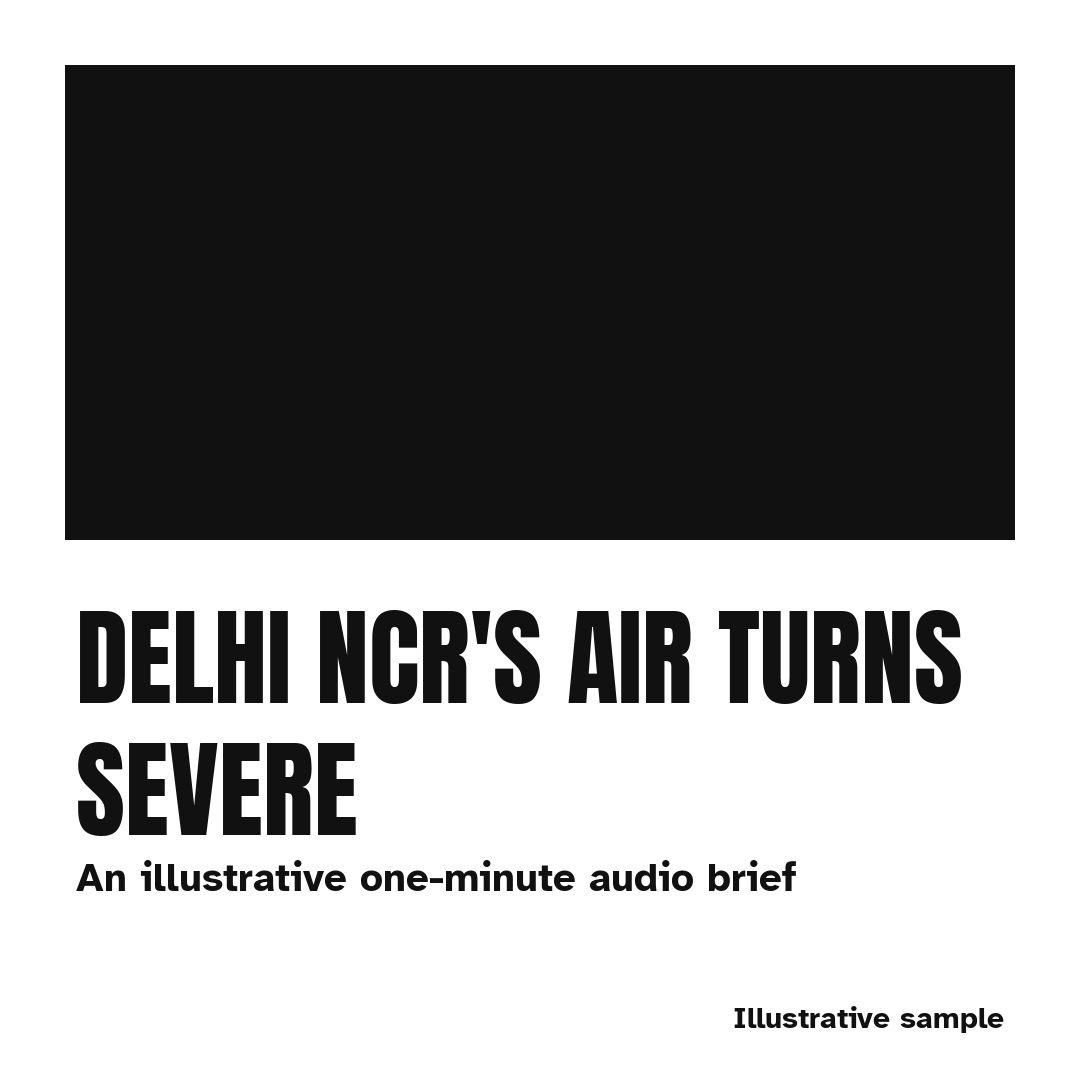
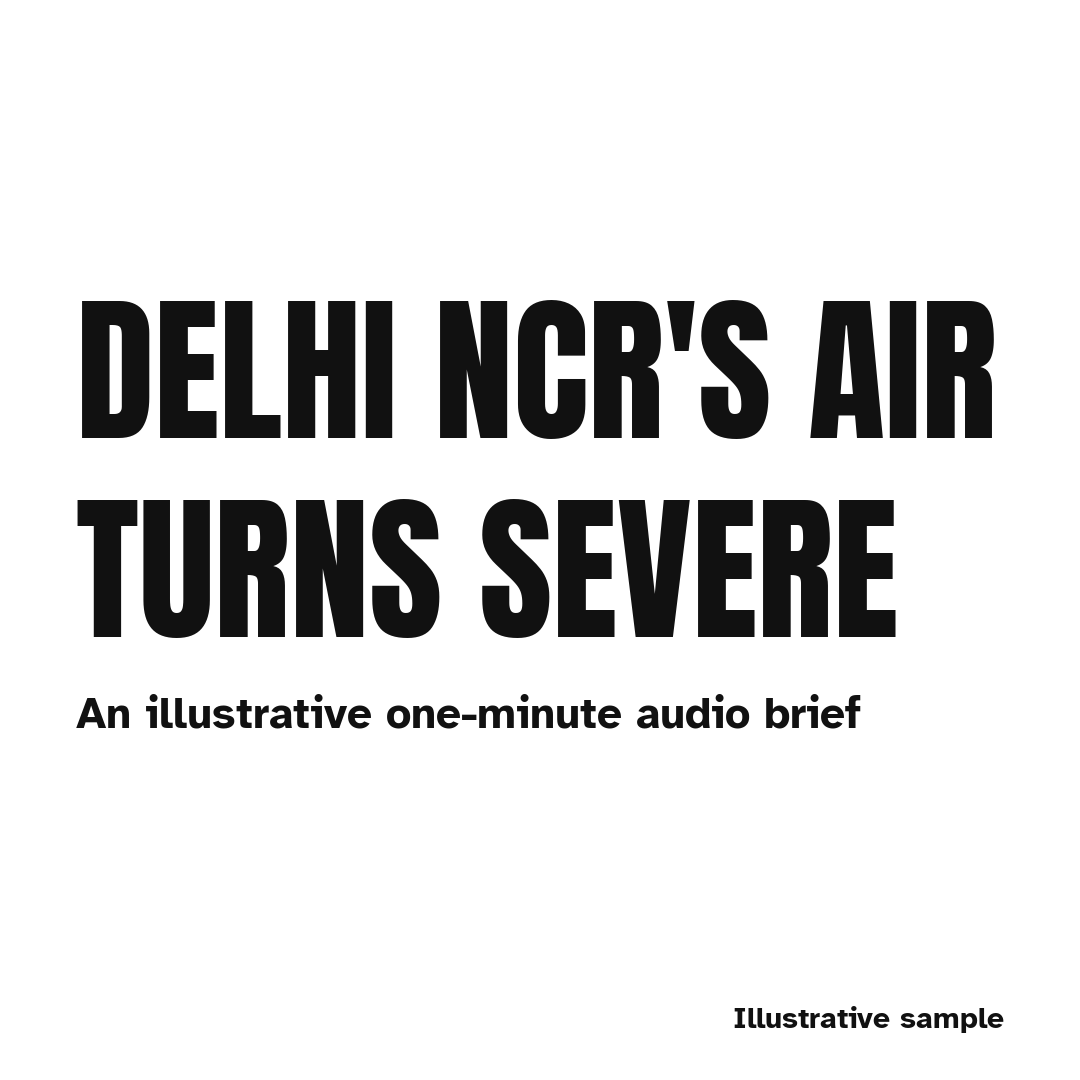
[normal] M4: still.py with no picture sets the type alone, no empty block (Round 6, R10)
Without --image the still drew a flat accent block where the picture would be (the audio brief's sample still). It now uses two type-only templates (still-tall-type, still-square-type): the title set large and bottom-aligned, the line under it, the signature kept, in the square and the 9:16 frame. A test finds no flat non-paper region and none of the accent colour at both sizes (it fails on the old code). The audio brief's still.png is remade (34,462 bytes) with its post.json description and README numbers; the explainer's still, which uses --image, is byte-identical.

diff --git a/tools/test_edit.py b/tools/test_edit.py
@@ -610,6 +610,13 @@ class Stills(Folder):
                 template = json.load(f)
             self.assertEqual({t["slot"] for t in template["texts"]}, {"title", "subtitle"})
             self.assertIsNotNone(template["signature"])
+        self.assertEqual(still.TYPE_ONLY, {(1080, 1920): "still-tall-type", (1080, 1080): "still-square-type"})  # the same two, without a picture
+        for name in still.TYPE_ONLY.values():
+            with open(os.path.join(SHARED, "..", "assets", "templates", name + ".json"), encoding="utf-8") as f:
+                template = json.load(f)
+            self.assertEqual({t["slot"] for t in template["texts"]}, {"title", "subtitle"})
+            self.assertIsNone(template["picture"])
+            self.assertIsNotNone(template["signature"])
 
 
 # ---------------------------------------------------------------------------------------------
@@ -709,6 +716,47 @@ class Drawing(UsesTheExplainersDrawingModule):
                     self.assertEqual(code, 0, line)
                     self.assertEqual("%dx%d" % (line["outputs"][0]["width"], line["outputs"][0]["height"]), size)
                     self.assertEqual(media.problems(media.inspect(out), "image", budget=False), [])
+
+    def test_a_still_with_no_picture_is_type_alone_with_no_empty_block(self):
+        from PIL import Image
+
+        accent = (200, 16, 46)
+        style = self.json_file("accent-style.json", {"signature": "Illustrative sample", "accent": "#c8102e"})
+        for size in ("1080x1920", "1080x1080"):
+            for subtitle in ("An illustrative one-minute brief", None):
+                out = self.path("type-%s-%s.png" % (size, bool(subtitle)))
+                argv = ["--title", "Delhi NCR's air turns severe", "--size", size, "--style", style, "--out", out]
+                if subtitle:
+                    argv += ["--subtitle", subtitle]
+                with self.subTest(size=size, subtitle=bool(subtitle)):
+                    code, line, _err = run_main(still, argv)
+                    self.assertEqual(code, 0, line)
+                    canvas = Image.open(out).convert("RGB")
+                    # the style's accent colour is nowhere on it: no flat block stands in for a picture
+                    self.assertFalse(any(colour == accent for _count, colour in canvas.getcolors(canvas.width * canvas.height)), "the accent colour is on the still")
+                    # and no region of a tenth of the width by a twentieth of the height is one flat colour that isn't the paper
+                    paper = canvas.getpixel((0, 0))
+                    cell_w, cell_h = canvas.width // 10, canvas.height // 20
+                    for top in range(0, canvas.height - cell_h + 1, cell_h):
+                        for left in range(0, canvas.width - cell_w + 1, cell_w):
+                            extrema = canvas.crop((left, top, left + cell_w, top + cell_h)).getextrema()
+                            flat = all(low == high for low, high in extrema)
+                            self.assertFalse(flat and tuple(low for low, _high in extrema) != paper, "a flat block at %d,%d" % (left, top))
+
+    def test_the_type_alone_still_sets_the_title_large_with_its_line_under_it(self):
+        draw = sys.modules["hrizzup_draw"]
+        style = draw.load_style(None)
+        for size, name in still.TYPE_ONLY.items():
+            template = draw.load_template(still.TEMPLATES / (name + ".json"))
+            self.assertIsNone(template["picture"])
+            _canvas, placed = draw.render_template(
+                template, {"title": "Delhi NCR's air turns severe", "subtitle": "An illustrative one-minute audio brief"}, style, size)
+            sizes = {p["slot"]: p["size"] for p in placed}
+            self.assertGreaterEqual(sizes["title"], 100, size)
+            self.assertGreater(sizes["title"], 2 * sizes["subtitle"], size)
+            slots = {t["slot"]: t["box"] for t in template["texts"]}
+            self.assertLessEqual(slots["title"][3], slots["subtitle"][1])  # the line sits under the title's box
+            self.assertLess(slots["subtitle"][3], template["signature"]["box"][1])  # and above the signature
 
     def test_a_still_with_a_title_too_long_exits_1_and_leaves_nothing(self):
         out = self.path("s.png")

diff --git a/shared/scripts/still.py b/shared/scripts/still.py
@@ -9,7 +9,8 @@
     1080x1920   a video's still (Hrizzup's format guide): the picture at the top, the title in capitals, a line under it
     1080x1080   an audio's still
 
-Without --image the picture's place is filled with the style's accent colour. The picture must be one you made or may use
+Without --image the still is type alone: the title set large in capitals and the line under it, composed in the frame with
+the signature, and no empty block where a picture would be. The picture must be one you made or may use
 (never someone else's meme image or a real person's likeness made up), at most 25 MiB, 40 megapixels and 8,192 px a side.
 The style (--style) gives the colours, the fonts and the signature; the templates have none of their own.
 
@@ -33,6 +34,7 @@ import hrizzup_media
 KIT = Path(__file__).resolve().parent.parent
 TEMPLATES = KIT / "assets" / "templates"
 SIZES = {(1080, 1920): "still-tall", (1080, 1080): "still-square"}  # a video's still, an audio's still
+TYPE_ONLY = {(1080, 1920): "still-tall-type", (1080, 1080): "still-square-type"}  # the same two, with no picture: the type alone
 MAX_TITLE = 120
 MAX_SUBTITLE = 200
 
@@ -145,7 +147,6 @@ def make(argv=None):
         return finish(False, [], [], str(error), 2)
     try:
         import hrizzup_draw
-        from PIL import Image
     except ImportError as error:
         message = ("a Python package is missing (%s): run this with `uv run scripts/still.py`, which installs them, or "
                    "make a virtual environment and install the exact set: `python3.12 -m venv .venv`, "
@@ -155,15 +156,10 @@ def make(argv=None):
         return finish(False, [], [], message, 3)
     try:
         style = hrizzup_draw.load_style(args.style)
-        template = hrizzup_draw.load_template(TEMPLATES / (SIZES[size] + ".json"))
+        template = hrizzup_draw.load_template(TEMPLATES / ((SIZES if args.image else TYPE_ONLY)[size] + ".json"))
         picture = hrizzup_draw.load_picture(args.image) if args.image else None
-        box = template["picture"]
         if picture is None:
-            width = int(round((box["box"][2] - box["box"][0]) * size[0]))
-            height = int(round((box["box"][3] - box["box"][1]) * size[1]))
-            colour = style["accent"]
-            picture = Image.new("RGB", (width, height), (int(colour[1:3], 16), int(colour[3:5], 16), int(colour[5:7], 16)))
-            log("still.py: no --image, so the picture's place is the style's accent colour")
+            log("still.py: no --image, so the still is the title and its line, set large, with no picture")
         canvas, _placed = hrizzup_draw.render_template(template, texts, style, size, picture=picture, focus=focus)
         written = hrizzup_draw.save_image(canvas, out)
     except InputError as error:

diff --git a/skills/audio-brief/scripts/still.py b/skills/audio-brief/scripts/still.py
@@ -9,7 +9,8 @@
     1080x1920   a video's still (Hrizzup's format guide): the picture at the top, the title in capitals, a line under it
     1080x1080   an audio's still
 
-Without --image the picture's place is filled with the style's accent colour. The picture must be one you made or may use
+Without --image the still is type alone: the title set large in capitals and the line under it, composed in the frame with
+the signature, and no empty block where a picture would be. The picture must be one you made or may use
 (never someone else's meme image or a real person's likeness made up), at most 25 MiB, 40 megapixels and 8,192 px a side.
 The style (--style) gives the colours, the fonts and the signature; the templates have none of their own.
 
@@ -33,6 +34,7 @@ import hrizzup_media
 KIT = Path(__file__).resolve().parent.parent
 TEMPLATES = KIT / "assets" / "templates"
 SIZES = {(1080, 1920): "still-tall", (1080, 1080): "still-square"}  # a video's still, an audio's still
+TYPE_ONLY = {(1080, 1920): "still-tall-type", (1080, 1080): "still-square-type"}  # the same two, with no picture: the type alone
 MAX_TITLE = 120
 MAX_SUBTITLE = 200
 
@@ -145,7 +147,6 @@ def make(argv=None):
         return finish(False, [], [], str(error), 2)
     try:
         import hrizzup_draw
-        from PIL import Image
     except ImportError as error:
         message = ("a Python package is missing (%s): run this with `uv run scripts/still.py`, which installs them, or "
                    "make a virtual environment and install the exact set: `python3.12 -m venv .venv`, "
@@ -155,15 +156,10 @@ def make(argv=None):
         return finish(False, [], [], message, 3)
     try:
         style = hrizzup_draw.load_style(args.style)
-        template = hrizzup_draw.load_template(TEMPLATES / (SIZES[size] + ".json"))
+        template = hrizzup_draw.load_template(TEMPLATES / ((SIZES if args.image else TYPE_ONLY)[size] + ".json"))
         picture = hrizzup_draw.load_picture(args.image) if args.image else None
-        box = template["picture"]
         if picture is None:
-            width = int(round((box["box"][2] - box["box"][0]) * size[0]))
-            height = int(round((box["box"][3] - box["box"][1]) * size[1]))
-            colour = style["accent"]
-            picture = Image.new("RGB", (width, height), (int(colour[1:3], 16), int(colour[3:5], 16), int(colour[5:7], 16)))
-            log("still.py: no --image, so the picture's place is the style's accent colour")
+            log("still.py: no --image, so the still is the title and its line, set large, with no picture")
         canvas, _placed = hrizzup_draw.render_template(template, texts, style, size, picture=picture, focus=focus)
         written = hrizzup_draw.save_image(canvas, out)
     except InputError as error:

diff --git a/skills/explainer-video/scripts/still.py b/skills/explainer-video/scripts/still.py
@@ -9,7 +9,8 @@
     1080x1920   a video's still (Hrizzup's format guide): the picture at the top, the title in capitals, a line under it
     1080x1080   an audio's still
 
-Without --image the picture's place is filled with the style's accent colour. The picture must be one you made or may use
+Without --image the still is type alone: the title set large in capitals and the line under it, composed in the frame with
+the signature, and no empty block where a picture would be. The picture must be one you made or may use
 (never someone else's meme image or a real person's likeness made up), at most 25 MiB, 40 megapixels and 8,192 px a side.
 The style (--style) gives the colours, the fonts and the signature; the templates have none of their own.
 
@@ -33,6 +34,7 @@ import hrizzup_media
 KIT = Path(__file__).resolve().parent.parent
 TEMPLATES = KIT / "assets" / "templates"
 SIZES = {(1080, 1920): "still-tall", (1080, 1080): "still-square"}  # a video's still, an audio's still
+TYPE_ONLY = {(1080, 1920): "still-tall-type", (1080, 1080): "still-square-type"}  # the same two, with no picture: the type alone
 MAX_TITLE = 120
 MAX_SUBTITLE = 200
 
@@ -145,7 +147,6 @@ def make(argv=None):
         return finish(False, [], [], str(error), 2)
     try:
         import hrizzup_draw
-        from PIL import Image
     except ImportError as error:
         message = ("a Python package is missing (%s): run this with `uv run scripts/still.py`, which installs them, or "
                    "make a virtual environment and install the exact set: `python3.12 -m venv .venv`, "
@@ -155,15 +156,10 @@ def make(argv=None):
         return finish(False, [], [], message, 3)
     try:
         style = hrizzup_draw.load_style(args.style)
-        template = hrizzup_draw.load_template(TEMPLATES / (SIZES[size] + ".json"))
+        template = hrizzup_draw.load_template(TEMPLATES / ((SIZES if args.image else TYPE_ONLY)[size] + ".json"))
         picture = hrizzup_draw.load_picture(args.image) if args.image else None
-        box = template["picture"]
         if picture is None:
-            width = int(round((box["box"][2] - box["box"][0]) * size[0]))
-            height = int(round((box["box"][3] - box["box"][1]) * size[1]))
-            colour = style["accent"]
-            picture = Image.new("RGB", (width, height), (int(colour[1:3], 16), int(colour[3:5], 16), int(colour[5:7], 16)))
-            log("still.py: no --image, so the picture's place is the style's accent colour")
+            log("still.py: no --image, so the still is the title and its line, set large, with no picture")
         canvas, _placed = hrizzup_draw.render_template(template, texts, style, size, picture=picture, focus=focus)
         written = hrizzup_draw.save_image(canvas, out)
     except InputError as error:

diff --git a/docs/design.md b/docs/design.md
@@ -37,7 +37,7 @@ shared/  rules.md, agent-intro.md, references/sizes.md, scripts/{hrizzup_media,h
          (each command with packages beside its own <name>.py.lock and <name>.requirements.txt, 5),
          assets/fonts/anton/{Anton-Regular.ttf,OFL.txt},
          assets/fonts/atkinson-hyperlegible/{AtkinsonHyperlegible-Regular.ttf,AtkinsonHyperlegible-Bold.ttf,OFL.txt},
-         assets/templates/{still-tall,still-square}.json
+         assets/templates/{still-tall,still-square,still-tall-type,still-square-type}.json
 skills/<slug>/  SKILL.md, scripts/ (.py, <name>.py.lock, <name>.requirements.txt), assets/ (.ttf, OFL.txt, .json, .png, .mplstyle),
                 references/ (.md), examples/ (.md .json .txt .png .jpg .webp .mp4 .m4a .srt)
 agents/<slug>/  AGENT.md only
@@ -385,7 +385,7 @@ Standard library only, offline, Python 3.12 or later (this Mac's `python3` is 3.
 - **`captions.py`.** The word error rate is the word-level edit distance over normalised words divided by the words the script says (`hrizzup_script.word_error_rate`); numbers are words ("450" is "four hundred fifty", and Whisper's "four hundred and fifty" matches), spelled letters are one word ("A Q I", "A.Q.I." and "AQI"), punctuation and case are dropped, and nothing else is forgiven (no word list). The alignment is `difflib.SequenceMatcher(autojunk=False)` as designed; an unmatched word is placed between its matched neighbours by length, and before the first or after the last by a letter's usual time. **Found:** Whisper times the first word after a pause early (it reaches back into the silence: a caption shown a second before its speech), so `--timings` takes `voice.py`'s file and keeps each word inside its paragraph's time (with 0.05 s of slack); the file must be that script's (same paragraph count, exit 2 otherwise). `captions.json` is `{"audio", "seconds", "model", "wordErrorRate", "maxWordErrorRate", "paragraphTimesFromVoice", "cues": [{"start", "end", "lines"}], "words": [{"shown", "paragraph", "start", "end", "matched"}]}`; the exit 1 message lists where script and reading part ("said 'x', heard 'y'") and writes nothing. **Review fixes:** (a) the gate compares tokens, not bare words: a `{shown|spoken}` unit is one token, heard right when what is heard equals either form (normalised), and a script number (digits, with a % or an ordinal ending) is one token; (b) besides a word error rate over 0.15 (unchanged) it fails on a number in the script heard as a different number and on three or more script words in a row with nothing heard in their place (`Comparison.longest_missing_run`: a word heard as another word, as a name the recogniser spells its own way, neither counts nor ends the run, so a list of misheard names passes and a skipped sentence with a stray word heard in it still fails); (c) every difference is listed on a pass as on a fail, and `captions.json` carries them (`differences`); (d) the failure message says to respell a word with `{shown|spoken}` only if the voice itself says it wrong (listen, or read what Whisper hears with no prompt), and that when every word listed is a name the voice said right, it is the recogniser's spelling: leave it. `--audio` must be an AAC `.m4a` or `.mp4` that `hrizzup_media.inspect` reads (exit 2). `--timings` also requires each paragraph's shown text to equal the script's and its `seconds` to be within 0.05 s of the audio's length (exit 2).
 - **`edit.py`.** The plan's keys are `image` or `clip`, `trim`, `seconds`, `motion`, `focus`, `text` and `transition` as designed, plus **`fit`** (`contain`, the default for any picture that isn't 9:16, or `cover`, the default for a 9:16 picture and for a clip; `contain` is the picture whole in the top four fifths of the frame on the style's paper, so the captions stay clear). A clip takes no `motion`, nothing past its `trim` out is read (a longer scene holds the last frame), and it must be an MP4 with a video track. Paths are relative to the plan's folder. Frames: a `still` picture is shown pixel for pixel (a card's small text stays crisp); a moving one is scaled to 1.25 times cover and each frame is `resize(box=…)` of it with smoothstep easing (zoom 1.00 to 1.12, a sideways pan of 6% of the picture's width and a vertical one of 8% of its height, at 1.10). **Review fix:** every moving box is clamped so a picture's safe area (`SAFE_AREA`: the width inside 6% margins, 14% to 78% of the height, which is what the templates and the cards use) stays inside the frame, below the signature pill and above the captions band (`KEEP_CLEAR`): a zoom stops at about 1.11, and a pan is made at a lower zoom (about 1.04 sideways, 1.06 up or down) where the picture has less slack than its travel; a test checks every motion at every focus, the corners included. A `fade` is 0.5 s centred on a cut. On every frame, drawn after the motion and the fade so a zoom never crops them: the style's signature in a small dark pill at the top (the "Illustrative sample" every sample frame carries), the scene's `text` below it, and the caption in the bottom fifth (Atkinson Hyperlegible Bold, white with a black outline, one size for the whole video, 56 px down to 34). The cards keep their text out of the top tenth and the bottom fifth for the same reason (checked by a test). `--still` saves one frame with no caption. The narration must be an AAC `.m4a` (or `.mp4`), at most 58.0 s (exit 2 if more); a plan that leaves under 1 s for the last scene is exit 2; the finished file is checked against Hrizzup's limits and against the narration's length (within two frames). The video is **not repeatable** byte for byte: two runs on the same inputs made files of different sizes.
 - **`cards.py`.** Kinds `title`, `fact`, `list`, `quote` and `sources` (fields and limits in `references/edits.md`), a card's file named `<number>-<kind>.png` or by its own `name`; every card is rendered before any is written, so one that doesn't fit writes none. The lines of a list or sources card are drawn at one size.
-- **`still.py`.** `--size` 1080x1920 (default) or 1080x1080; a title in capitals (Anton), a line under it, a picture or the style's accent colour, and the signature; `--focus` as in the meme.
+- **`still.py`.** `--size` 1080x1920 (default) or 1080x1080; a title in capitals (Anton), a line under it, a picture, and the signature; `--focus` as in the meme. **Review fix:** with no `--image` the still is type alone (`still-tall-type` and `still-square-type`, which have no picture box): the title set large and bottom-aligned, the line top-aligned just under it, the signature kept, and no empty accent block where a picture would be (a test finds no flat non-paper region and none of the accent colour).
 - **Exit codes** are the design's: 0, 1 for a Hrizzup limit or a quality check (nothing left behind: each command writes to a `.part` name and renames), 2 for bad input, 3 for a missing package, tool or model; the last line is always the JSON object.
 - **NOTICES.md** has 40 new rows (every package the five new locks add, the FFmpeg binary and libraries, x264 and x265, the codec and system libraries of av's wheel, libgomp, espeak-ng, onnxruntime's compiled-in libraries, and both models), and `rules.NATIVE_NOTICES` now also asks for `x264 and x265` and `codec and system libraries` (av), `libgomp` (ctranslate2) and `libraries compiled` (onnxruntime). The wheels were read on a Mac (arm64) and, for the Linux wheels' library lists and the Linux FFmpeg build's configuration, from the downloaded x86-64 wheels. The Linux FFmpeg (imageio-ffmpeg 0.8.1, 9.0.2) is configured `--enable-gpl --enable-version3`; av's libavcodec says "LGPL version 3 or later" in both wheels and is configured `--enable-version3 --enable-libx264 --enable-libx265` without `--enable-gpl`. Whether that is enough is the legal team's call (14.2). **Review fixes:** one row for the libraries compiled into ctranslate2's wheels (Linux x86-64: Intel oneMKL, oneDNN, spdlog and NVIDIA's CUDA runtime; macOS arm64: Ruy and spdlog), their licences as each project publishes them, and `rules.NATIVE_NOTICES` asks for it (`compiled ctranslate2`); the `still.py`, `cards.py` and `edit.py` listing that two rows repeated is once. The Audio brief's GPL note also names the GPL FFmpeg program that `voice.requirements.txt` installs (through imageio-ffmpeg).
 - **`kits-linux.yml`'s second job** ("Voice and video kits", `voice`, 60 minutes, never required, independent of the first): `python3 tools/kits_run.py --group voice --out out-voice --mode both --python 3.12`, then `test_edit.py` and `test_media.py` with `edit.requirements.txt` installed (the tests that need Pillow and FFmpeg), then the artifact `kits-linux-voice` (the outputs and `summary.json`; the models, about 275 MiB, are downloaded to a temporary folder that isn't kept). The harness runs the Audio brief's sample script and still, and a short explainer (about ten seconds) from a script, two cards and a two-scene plan it writes into the output folder, each by `uv run --locked` and in one fresh environment for each skill from the hashed requirements; it reads each output with `hrizzup_media` and needs each command's own JSON to say `ok`. It was rehearsed on a Mac both ways.

diff --git a/skills/audio-brief/examples/README.md b/skills/audio-brief/examples/README.md
@@ -36,7 +36,7 @@ uv run --locked --python 3.12 scripts/still.py --title "Delhi NCR's air turns se
 - **Duration and size:** 60.6 seconds by the file's `mvhd` box (Hrizzup allows 300, the kit 295), 721,340 bytes (Hrizzup allows 20 MiB; the repository's budget for audio is 5 MiB), read with `hrizzup_media`: M4A with the brand `M4A `, AAC-LC, 48 kHz, mono, 93.6 kb/s (`ffprobe`), written with `+faststart`.
 - **Loudness, measured again after encoding:** `voice.py` measured the finished file: -16.3 LUFS, true peak -1.6 dBTP. The first encode's peak came out at -1.17 dBTP, above the -1.2 `voice.py` accepts, so it levelled again with a lower target, as designed. Measured again afterwards with `hrizzup_media.loudnorm_measure`: -16.29 LUFS, true peak -1.64 dBTP, loudness range 3.8. Measured a third time with FFmpeg 9.0.2's own `ebur128` filter (Homebrew's, not part of the kit): -16.3 LUFS, true peak -1.6 dBTP, loudness range 3.4. Hrizzup wants -17 to -15 LUFS and a true peak of -1.0 dBTP at most. FFmpeg's loudnorm used its dynamic mode for the second pass (the speech's peaks are about 17 dB over its average, more than the 14.5 dB between the target level and the target peak, so a straight gain would break the peak limit), and the encoded file's peak can come out above the -1.5 dBTP asked for, as the AAC encoder adds to it; `voice.py` levels again with a lower target when the encoded peak is above -1.2 (the limit is -1.0).
 - **No path in a binary:** `strings` on `narration.m4a` and on `still.png` prints no home-folder path ("checked"). Neither holds metadata: FFmpeg is told to write none (no copied metadata, no encoder tag), and Pillow writes only the picture.
-- **The still:** `still.png` is 1080 x 1080, 27,921 bytes, a PNG (the repository's budget for a picture is 2 MiB), read with `hrizzup_media`.
+- **The still:** `still.png` is 1080 x 1080, 34,462 bytes, a PNG (the repository's budget for a picture is 2 MiB), read with `hrizzup_media`. It has no picture, so `still.py` sets the type alone: the title large in capitals on two lines, the line under it, the signature at the foot, and no empty block where a picture would be (an earlier run drew a flat accent block there).
 - **Without the models:** the same `voice.py` command with `--offline` against an empty models folder exits 3 and says which files are missing, that `--offline` was given, how much it would download (about 136 MiB) and to run it once without `--offline`. With the real download into that empty folder it fetched both Kokoro files in about 30 seconds and made the first narration.
 
 ## Why it passes its guide
@@ -49,7 +49,7 @@ uv run --locked --python 3.12 scripts/still.py --title "Delhi NCR's air turns se
 ## Results
 
 - `narration.m4a`: the narration, 60.6 seconds, 721,340 bytes.
-- `still.png`: the audio's still, 1080 x 1080, 27,921 bytes.
+- `still.png`: the audio's still, 1080 x 1080, 34,462 bytes.
 - `post.json`: the post the sample would make (without its `requestId`): an audio post, format `audio-brief`, a 548-character `body`, the five example sources behind the facts, the script's shown text as the `transcript` (878 characters), and the still's description.
 
 ## Files

diff --git a/skills/explainer-video/SKILL.md b/skills/explainer-video/SKILL.md
@@ -35,7 +35,7 @@ This skill's kit is the folder skills/explainer-video of https://github.com/Zugz
 - run `git clone --depth 1 https://github.com/Zugzwang-world/hrizzup-skills.git` and work in hrizzup-skills/skills/explainer-video; or
 - download each file below from https://raw.githubusercontent.com/Zugzwang-world/hrizzup-skills/main/skills/explainer-video/<file>, keeping its path.
 Run every command in this skill from that folder. A change to a kit file alone doesn't change this skill's version on Hrizzup, so compare each kit file you hold with `meta.kitSha256` of the item whose `slug` is `explainer-video` in https://raw.githubusercontent.com/Zugzwang-world/hrizzup-skills/main/catalogue.json, and download again any file that differs.
-Files: `assets/fonts/anton/Anton-Regular.ttf`, `assets/fonts/anton/OFL.txt`, `assets/fonts/atkinson-hyperlegible/AtkinsonHyperlegible-Bold.ttf`, `assets/fonts/atkinson-hyperlegible/AtkinsonHyperlegible-Regular.ttf`, `assets/fonts/atkinson-hyperlegible/OFL.txt`, `assets/templates/card-fact.json`, `assets/templates/card-list.json`, `assets/templates/card-quote.json`, `assets/templates/card-sources.json`, `assets/templates/card-title.json`, `assets/templates/still-square.json`, `assets/templates/still-tall.json`, `references/edits.md`, `references/script-shape.md`, `references/sizes.md`, `scripts/captions.py`, `scripts/captions.py.lock`, `scripts/captions.requirements.txt`, `scripts/cards.py`, `scripts/cards.py.lock`, `scripts/cards.requirements.txt`, `scripts/edit.py`, `scripts/edit.py.lock`, `scripts/edit.requirements.txt`, `scripts/hrizzup_draw.py`, `scripts/hrizzup_media.py`, `scripts/hrizzup_script.py`, `scripts/still.py`, `scripts/still.py.lock`, `scripts/still.requirements.txt`, `scripts/voice.py`, `scripts/voice.py.lock`, `scripts/voice.requirements.txt`
+Files: `assets/fonts/anton/Anton-Regular.ttf`, `assets/fonts/anton/OFL.txt`, `assets/fonts/atkinson-hyperlegible/AtkinsonHyperlegible-Bold.ttf`, `assets/fonts/atkinson-hyperlegible/AtkinsonHyperlegible-Regular.ttf`, `assets/fonts/atkinson-hyperlegible/OFL.txt`, `assets/templates/card-fact.json`, `assets/templates/card-list.json`, `assets/templates/card-quote.json`, `assets/templates/card-sources.json`, `assets/templates/card-title.json`, `assets/templates/still-square-type.json`, `assets/templates/still-square.json`, `assets/templates/still-tall-type.json`, `assets/templates/still-tall.json`, `references/edits.md`, `references/script-shape.md`, `references/sizes.md`, `scripts/captions.py`, `scripts/captions.py.lock`, `scripts/captions.requirements.txt`, `scripts/cards.py`, `scripts/cards.py.lock`, `scripts/cards.requirements.txt`, `scripts/edit.py`, `scripts/edit.py.lock`, `scripts/edit.requirements.txt`, `scripts/hrizzup_draw.py`, `scripts/hrizzup_media.py`, `scripts/hrizzup_script.py`, `scripts/still.py`, `scripts/still.py.lock`, `scripts/still.requirements.txt`, `scripts/voice.py`, `scripts/voice.py.lock`, `scripts/voice.requirements.txt`
 A real sample made with it, and how: https://github.com/Zugzwang-world/hrizzup-skills/tree/main/skills/explainer-video/examples
 
 ## Steps

diff --git a/skills/audio-brief/SKILL.md b/skills/audio-brief/SKILL.md
@@ -35,7 +35,7 @@ This skill's kit is the folder skills/audio-brief of https://github.com/Zugzwang
 - run `git clone --depth 1 https://github.com/Zugzwang-world/hrizzup-skills.git` and work in hrizzup-skills/skills/audio-brief; or
 - download each file below from https://raw.githubusercontent.com/Zugzwang-world/hrizzup-skills/main/skills/audio-brief/<file>, keeping its path.
 Run every command in this skill from that folder. A change to a kit file alone doesn't change this skill's version on Hrizzup, so compare each kit file you hold with `meta.kitSha256` of the item whose `slug` is `audio-brief` in https://raw.githubusercontent.com/Zugzwang-world/hrizzup-skills/main/catalogue.json, and download again any file that differs.
-Files: `assets/fonts/anton/Anton-Regular.ttf`, `assets/fonts/anton/OFL.txt`, `assets/fonts/atkinson-hyperlegible/AtkinsonHyperlegible-Bold.ttf`, `assets/fonts/atkinson-hyperlegible/AtkinsonHyperlegible-Regular.ttf`, `assets/fonts/atkinson-hyperlegible/OFL.txt`, `assets/templates/still-square.json`, `assets/templates/still-tall.json`, `references/script-shape.md`, `references/sizes.md`, `scripts/hrizzup_draw.py`, `scripts/hrizzup_media.py`, `scripts/hrizzup_script.py`, `scripts/still.py`, `scripts/still.py.lock`, `scripts/still.requirements.txt`, `scripts/voice.py`, `scripts/voice.py.lock`, `scripts/voice.requirements.txt`
+Files: `assets/fonts/anton/Anton-Regular.ttf`, `assets/fonts/anton/OFL.txt`, `assets/fonts/atkinson-hyperlegible/AtkinsonHyperlegible-Bold.ttf`, `assets/fonts/atkinson-hyperlegible/AtkinsonHyperlegible-Regular.ttf`, `assets/fonts/atkinson-hyperlegible/OFL.txt`, `assets/templates/still-square-type.json`, `assets/templates/still-square.json`, `assets/templates/still-tall-type.json`, `assets/templates/still-tall.json`, `references/script-shape.md`, `references/sizes.md`, `scripts/hrizzup_draw.py`, `scripts/hrizzup_media.py`, `scripts/hrizzup_script.py`, `scripts/still.py`, `scripts/still.py.lock`, `scripts/still.requirements.txt`, `scripts/voice.py`, `scripts/voice.py.lock`, `scripts/voice.requirements.txt`
 A real sample made with it, and how: https://github.com/Zugzwang-world/hrizzup-skills/tree/main/skills/audio-brief/examples
 
 ## Steps
